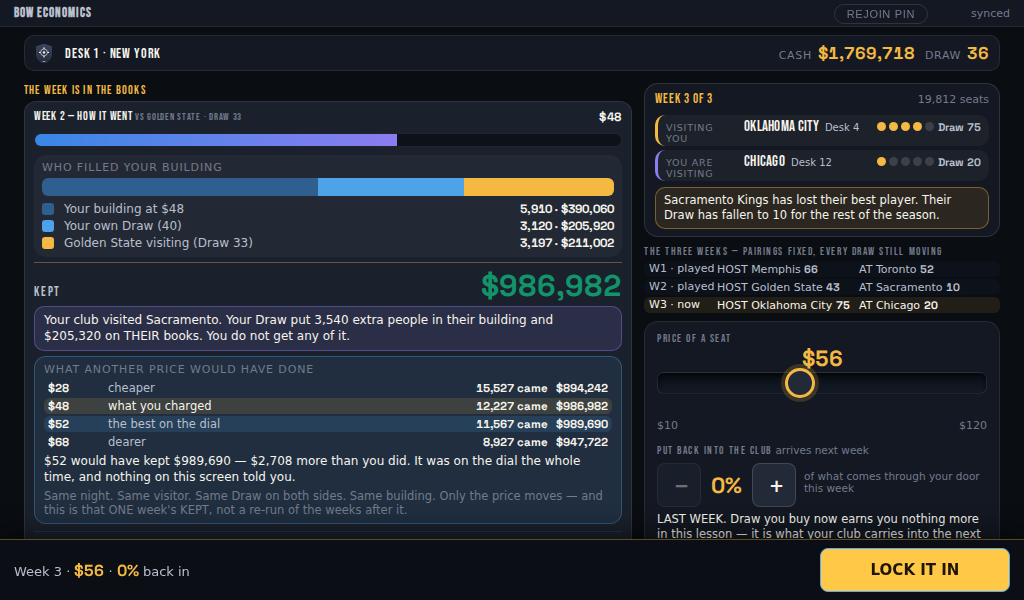
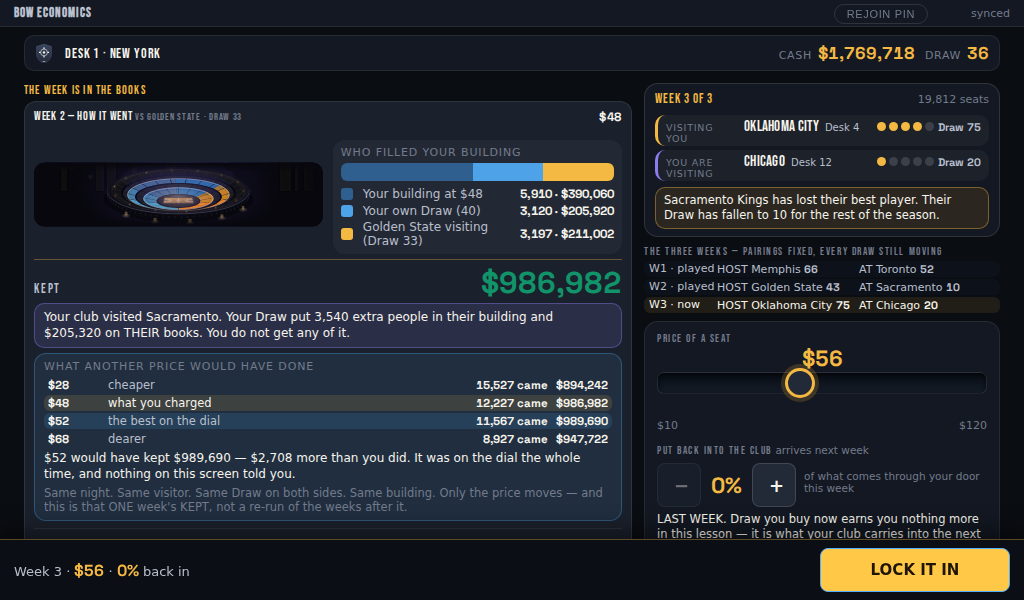
W6/RC3: give L2's home night a building, and colour the crowd
L1 hands a pair an arena to look at. L2 handed them a 10px progress strip and a
stacked bar — the same night rendered as a spreadsheet — which is RC3, "L2 has
no world". It costs more than looks: the thing L2 exists to teach is that the
biggest block of people in YOUR building is usually somebody else's doing, and
a legend under a bar is a weak way to say that next to a picture of the actual
crowd with that block in its own colour.

The settled week now draws the real building, with the crowd split into wedges
of the house: your building at your price, your own Draw, and the club visiting
you, in the three colours the rows beside it already use — so the rows ARE the
key and a pair can point from one to the other. Wedges, not rings, deliberately:
a ring encoding would seat one group in front of another, which is a claim about
seat quality the model does not make, and "a third of the arena in the other
team's colours" is a thing a student may have actually seen.

The drawing costs the card no height. The whole settlement has to land above the
fold on a 1024x600 Chromebook with no scrolling of any kind, so the arena sits
beside its key rather than above it, and takes the drawing's own 4.6:1 aspect —
a taller frame was letterboxing `meet` and drawing a SMALLER building inside
dark bands.

THE MAGNITUDE PROBLEM, MEASURED AND FIXED. Equal angle is nowhere near equal
drawn area in this bowl: PERSP swells the near side, the seat rake stretches the
[…]

Changed region(s): [[0.0312, 0.21, 0.625, 0.87]]

diff --git a/runtime/src/client/shared/arena.ts b/runtime/src/client/shared/arena.ts
@@ -121,6 +121,43 @@ export interface ArenaOptions {
   motion?: boolean;
   /** Accessible name. Supply payload-derived text; never composed here. */
   label?: string;
+  /**
+   * ATTRIBUTION BANDS inside the lit crowd, innermost (front row) outward.
+   *
+   * The default drawing answers one question: how full is the building. M2 L2
+   * asks a second one that no bar chart answers as well — WHO in this crowd is
+   * here because of you, and who was brought by the club you are hosting. The
+   * whole lesson is that the biggest block of people in your building is
+   * usually somebody else's doing, and the honest way to say that is to colour
+   * the people.
+   *
+   * The bands are WEDGES OF THE HOUSE, not rings. That is deliberate on two
+   * counts. A ring encoding would put one group in the front rows and another
+   * in the back, which is a claim about seat quality the model does not make
+   * and the lesson does not mean. And wedges are how people actually talk about
+   * this in a real building — a third of the arena wearing the other team's
+   * colours — so the picture names a phenomenon a student may have seen.
+   *
+   * The two encodings stay separate and each says exactly one thing: the RADIAL
+   * seam still says how full the building is, by equal area, on every open deck
+   * (law 3, untouched); the ANGULAR wedges say who brought the crowd that is
+   * there. A half-full building shows three colours in its front rows.
+   *
+   * Each `share` is a share of the CROWD and the bands sum to 1. Shares that
+   * sum to less leave the remainder in the house tone; pass none and the crowd
+   * is drawn in one tone as before.
+   */
+  bands?: readonly ArenaBand[];
+}
+
+/** One attribution wedge of the lit crowd: its share of the people, and its colour. */
+export interface ArenaBand {
+  /** Share of TURNOUT this wedge accounts for. Bands sum to 1. */
+  share: number;
+  /** Base hue of the wedge's seats, so the surface's own legend can match it. */
+  hue: number;
+  /** Base saturation. The three depth tones vary lightness around it, as before. */
+  sat: number;
 }
 
 type Pt = [number, number];
@@ -216,6 +253,7 @@ export function arenaSvg(opts: ArenaOptions = {}): string {
      the option was on the card changes nothing in the drawing. */
   const bowlOpen = !!opts.bowlOpen;
   const litMode: ArenaLit = opts.lit || "night";
+  const bandsIn = opts.bands ?? [];
   const motion = !!opts.motion;
   const uid = "ar" + (++UID).toString(36);
   const rand = mulberry32(((opts.seed === undefined ? 7 : opts.seed) * 2654435761) ^ 0x5f3759df);
@@ -507,7 +545,100 @@ export function arenaSvg(opts: ArenaOptions = {}): string {
    * carries the number (visual-critic-3 direction 1).
    */
   const seatSteps = detail === "high" ? 5 : 3;
-  const litPaths: string[][] = [[], [], []]; /* far / side / near tone groups */
+  /* Attribution bands, innermost first, clipped so they can never claim more
+     of the bowl than the crowd actually fills. With no bands this is the one
+     house-tone band the drawing has always had. */
+  const HOUSE_BAND: ArenaBand = { share: 1, hue: 256, sat: 34 };
+  const bands: ArenaBand[] = [];
+  if (bandsIn.length > 0 && fill > 0) {
+    let used = 0;
+    for (const b of bandsIn) {
+      const share = clamp(b.share, 0, 1 - used);
+      if (share > 0) bands.push({ ...b, share });
+      used += share;
+      if (used >= 1 - 1e-9) break;
+    }
+    /* Whatever the caller's wedges do not account for stays house tone, so a
+       band list that undershoots loses no people from the picture. */
+    if (used < 1 - 1e-9) bands.push({ share: 1 - used, hue: 256, sat: 34 });
+  } else if (fill > 0) {
+    bands.push(HOUSE_BAND);
+  }
+  /*
+   * Wedge boundaries, sized by the area each one will actually OCCUPY in the
+   * drawing rather than by angle.
+   *
+   * Equal angle is nowhere near equal drawn area in this bowl. Two effects
+   * push in opposite directions — `PERSP` swells the near side, and the seat
+   * rake stretches the far side vertically — and the rake wins by a long way.
+   * Measured on the shipped constants by rendering one wedge at a time and
+   * counting its pixels, four equal quarters of the house drew as 14.6%, 35.4%,
+   * 35.3% and 14.7% of the crowd. A picture in which a quarter of the building
+   * can look like a seventh or like a third, depending only on where it lands,
+   * is misrepresenting a magnitude, and no legend underneath undoes that.
+   *
+   * An analytic correction is not trustworthy here: the closed form for the
+   * perspective term alone left the error at ±42%, because the rake is the
+   * dominant term and it is piecewise. So the area is MEASURED, off the same
+   * `pt()` projection the drawing itself uses — the lit region of every open
+   * deck, swept in 360 steps, accumulated by shoelace. Whatever the geometry
+   * does, the wedges own their share of what is drawn.
+   *
+   * The radial seam is untouched: it still says how full the house is, by equal
+   * area, on every open deck (law 3).
+   */
+  const WEDGE_START = Math.PI / 2;
+  const SWEEP_STEPS = 360;
+  /** Drawn area of the lit crowd in each of `SWEEP_STEPS` slices from WEDGE_START. */
+  const sweep: number[] = new Array<number>(SWEEP_STEPS).fill(0);
+  if (bands.length > 1 && fill > 0.004) {
+    for (const deck of DECKS) {
+      if (!isOpenDeck(deck)) continue;
+      const rSeam = Math.sqrt(deck.rIn * deck.rIn + fill * (deck.rOut * deck.rOut - deck.rIn * deck.rIn));
+      for (let i = 0; i < SWEEP_STEPS; i += 1) {
+        const a0 = WEDGE_START + (i / SWEEP_STEPS) * Math.PI * 2;
+        const a1 = WEDGE_START + ((i + 1) / SWEEP_STEPS) * Math.PI * 2;
+        const q: Pt[] = [pt(deck.rIn, a0), pt(deck.rIn, a1), pt(rSeam, a1), pt(rSeam, a0)];
+        let A = 0;
+        for (let k = 0; k < 4; k += 1) {
+          const [x1, y1] = q[k]!;
+          const [x2, y2] = q[(k + 1) % 4]!;
+          A += x1 * y2 - x2 * y1;
+        }
+        sweep[i] = sweep[i]! + Math.abs(A) / 2;
+      }
+    }
+  }
+  const sweepTotal = sweep.reduce((a, x) => a + x, 0);
+  /** The angle by which the DRAWN crowd has covered `c` of its area since WEDGE_START. */
+  const angleForArea = (c: number): number => {
+    if (c <= 0) return WEDGE_START;
+    if (c >= 1) return WEDGE_START + Math.PI * 2;
+    if (sweepTotal <= 0) return WEDGE_START + c * Math.PI * 2;
+    let acc = 0;
+    const want = c * sweepTotal;
+    for (let i = 0; i < SWEEP_STEPS; i += 1) {
+      const nextAcc = acc + sweep[i]!;
+      if (nextAcc >= want) {
+        /* linear inside the slice — one slice is a degree of arc */
+        const t = sweep[i]! > 0 ? (want - acc) / sweep[i]! : 0;
+        return WEDGE_START + ((i + t) / SWEEP_STEPS) * Math.PI * 2;
+      }
+      acc = nextAcc;
+    }
+    return WEDGE_START + Math.PI * 2;
+  };
+  const wedges: { a0: number; a1: number; band: ArenaBand }[] = [];
+  {
+    let cum = 0;
+    for (const b of bands) {
+      const next = cum + b.share;
+      wedges.push({ a0: angleForArea(cum), a1: angleForArea(next), band: b });
+      cum = next;
+    }
+  }
+  /* One tone-group triple per band, so depth shading survives the colouring. */
+  const litPaths: string[][][] = bands.map(() => [[], [], []]); /* far / side / near, per wedge */
   const darkPaths: string[][] = [[], [], []];
   const litUnion: string[] = [];
   const emptyUnion: string[] = [];
@@ -550,9 +681,22 @@ export function arenaSvg(opts: ArenaOptions = {}): string {
       darkPaths[tone]!.push(band(deck.rIn, deck.rOut, b0, b1, seatSteps));
       emptyUnion.push(band(rSeam, deck.rOut, b0, b1, seatSteps));
       if (fill > 0.004) {
-        const d = band(deck.rIn, rSeam, b0, b1, seatSteps);
-        litPaths[tone]!.push(d);
-        litUnion.push(d);
+        /* This section's slice of each wedge. The radial extent is the same
+           rIn..rSeam every section has; only the ANGULAR span is split, so the
+           fill law is untouched and the wedge shares are exact rather than
+           quantised to the section count. */
+        for (let bi = 0; bi < wedges.length; bi += 1) {
+          const wg = wedges[bi]!;
+          /* Wedges run past 2*PI; compare this section against both turns. */
+          for (const shift of [0, Math.PI * 2, -Math.PI * 2]) {
+            const s0 = Math.max(b0, wg.a0 + shift);
+            const s1 = Math.min(b1, wg.a1 + shift);
+            if (s1 - s0 <= 1e-6) continue;
+            const d = band(deck.rIn, rSeam, s0, s1, seatSteps);
+            litPaths[bi]![tone]!.push(d);
+            litUnion.push(d);
+          }
+        }
       }
       if (detail === "high") {
         rowPath += arc(deck.rIn + (deck.rOut - deck.rIn) * 0.5, b0, b1, 3, "M");
@@ -586,12 +730,15 @@ export function arenaSvg(opts: ArenaOptions = {}): string {
         n(0.05 * dim) + '"/>'
     );
   }
-  for (let t = 0; t < 3; t++) {
-    if (litPaths[t]!.length) {
-      out.push(
-        '<path d="' + litPaths[t]!.join("") + '" fill="' +
-          hsl(256 - t * 6, 34 + t * 4, LIT_L[t]! * (0.62 + 0.38 * light) * dim + 1.5) + '"/>'
-      );
+  for (let bi = 0; bi < bands.length; bi++) {
+    const b = bands[bi]!;
+    for (let t = 0; t < 3; t++) {
+      if (litPaths[bi]![t]!.length) {
+        out.push(
+          '<path d="' + litPaths[bi]![t]!.join("") + '" fill="' +
+            hsl(b.hue - t * 6, b.sat + t * 4, LIT_L[t]! * (0.62 + 0.38 * light) * dim + 1.5) + '"/>'
+        );
+      }
     }
   }
   if (litUnion.length) {

diff --git a/runtime/src/client/play/main.ts b/runtime/src/client/play/main.ts
@@ -1,5 +1,5 @@
 import { ApiError, apiFetch } from "../shared/api.js";
-import { arenaSvg } from "../shared/arena.js";
+import { arenaSvg, type ArenaBand } from "../shared/arena.js";
 import { crestStyle } from "../shared/crest.js";
 import { brandMark, dotChart } from "../shared/m2ui.js";
 import { ActionOutbox } from "../shared/outbox.js";
@@ -2680,6 +2680,8 @@ function fhArenaFrame(o: {
   /** Lane A's third state: the top deck as a shuttered deck, or in the pool. */
   bowlSeats?: number;
   bowlOpen?: boolean;
+  /** Attribution bands inside the crowd (M2 L2). See `ArenaBand`. */
+  bands?: readonly ArenaBand[];
 }): string {
   const svg = arenaSvg({
     view: o.view,
@@ -2695,6 +2697,7 @@ function fhArenaFrame(o: {
     label: o.label,
     bowlSeats: o.bowlSeats,
     bowlOpen: o.bowlOpen,
+    bands: o.bands,
   });
   // Lane A's redraw fits the silhouette inside a panoramic viewBox and emits
   // `preserveAspectRatio="xMidYMid meet"`, so the frame can be any shape and
@@ -4210,6 +4213,66 @@ function hlPriceCfHtml(w: HLWeek): string {
     </div>`;
 }
 
+/**
+ * THE HOME NIGHT, DRAWN — and coloured by who brought the people.
+ *
+ * L1 gives a pair a building to look at; L2 used to give them a 10px progress
+ * strip and a stacked bar, which is the same night rendered as a spreadsheet.
+ * That is RC3, "L2 has no world", and it costs the lesson more than looks: the
+ * thing L2 exists to teach is that the biggest block of people in YOUR building
+ * is usually somebody else's doing, and a legend under a bar is a weak way to
+ * say it next to a picture of the actual crowd with that block in a different
+ * colour.
+ *
+ * The bands are shares of the seats open tonight and are drawn by equal AREA,
+ * the same law the arena's single seam has always obeyed — so the picture
+ * cannot overstate the visitor's block, and a half-full building looks half
+ * full with all three colours in the front rows rather than a full bowl of
+ * three colours. The hues are the legend's own three swatches, so the rows
+ * underneath ARE the key and a pair can point from one to the other.
+ */
+/**
+ * The three wedges, in the legend's own colours. Shares of the crowd, computed
+ * from the same three fan counts the rows print, so the picture and the numbers
+ * beside it cannot disagree. A week with nobody in the building has no wedges.
+ */
+function hlCrowdBands(w: HLWeek): ArenaBand[] {
+  const people = w.bareFans + w.ownFans + w.visitorFans;
+  if (people <= 0) return [];
+  return [
+    { share: w.bareFans / people, hue: 209, sat: 42 },
+    { share: w.ownFans / people, hue: 206, sat: 70 },
+    { share: w.visitorFans / people, hue: 41, sat: 80 },
+  ];
+}
+
+function hlArenaHtml(w: HLWeek): string {
+  const cap = Math.max(1, w.capacity);
+  const tight = fhTight();
+  return fhArenaFrame({
+    view: "outcome",
+    turnout: w.turnout,
+    seatsOpen: cap,
+    soldOut: w.soldOut,
+    turnedAway: w.turnedAway,
+    w: 620,
+    h: 300,
+    motion: false,
+    label: `${w.turnout.toLocaleString()} in the building, ${w.visitorFans.toLocaleString()} of them brought by ${w.visitor}`,
+    // The outcome drawing composes itself into a 4.6:1 box. Give the frame any
+    // other shape and `meet` fits the building to the narrow dimension and
+    // letterboxes the rest — which is why an apparently taller panel drew a
+    // SMALLER building with dark bands above and below it. The frame takes the
+    // drawing's own aspect, so every pixel of it is building.
+    maxHeight: Math.round((tight ? 300 : 340) / 4.6),
+    cls: "hl-arena",
+    // Wedges of the house, in the order the rows below name them: your building
+    // at your price, your own Draw, then the club visiting you. Shares of the
+    // CROWD, so they sum to the whole house however full it is.
+    bands: hlCrowdBands(w),
+  });
+}
+
 function hlWeekResultHtml(w: HLWeek, title: string): string {
   const sellout = w.soldOut
     ? `<div class="fh-sellout">
@@ -4226,7 +4289,8 @@ function hlWeekResultHtml(w: HLWeek, title: string): string {
         <span class="numeric">$${w.price}${w.share > 0 ? ` · ${w.share}% back in` : ""}</span>
       </div>
       ${sellout}
-      <div class="fh-fill-track"><div class="fh-fill-bar ${w.soldOut ? "soldout" : ""}" style="width:${Math.min(100, w.fillPct)}%"></div></div>
+      <div class="hl-crowd">
+        ${hlArenaHtml(w)}
       <div class="hl-split" id="hlSplit">
         <div class="hl-split-title">Who filled your building</div>
         <div class="hl-split-bar">
@@ -4239,6 +4303,7 @@ function hlWeekResultHtml(w: HLWeek, title: string): string {
           <div class="hl-split-row"><span class="hl-key own"></span><span>Your own Draw (${w.hostDrawBefore})</span><span class="numeric">${w.ownFans.toLocaleString()} · ${money(w.ownDollars)}</span></div>
           <div class="hl-split-row"><span class="hl-key visitor"></span><span>${escapeHtml(w.visitor)} visiting (Draw ${w.visitorDraw})</span><span class="numeric">${w.visitorFans.toLocaleString()} · ${money(w.visitorDollars)}</span></div>
         </div>
+      </div>
       </div>
       <div class="fh-kept ${w.net < 0 ? "neg" : ""}" data-hl-kept="1">
         <span class="fh-kept-label">Kept</span>

diff --git a/runtime/src/client/shared/theme.css b/runtime/src/client/shared/theme.css
@@ -2068,6 +2068,14 @@ html:not([data-module="m2"]) .fh-replay {
   border: 1px solid rgba(255, 255, 255, 0.12);
   color: var(--ink-muted);
   border-radius: 999px;
+  /* It is a pill, and it has to look like one wherever it lands. Its parent is
+     a stretch-aligned column, so without these it rendered as a full-width
+     bordered bar reading REJOIN PIN — which on a student device reads as a
+     stat whose number failed to load. It only ever looked right during PLAY,
+     where `fh-compact-play` takes it out of flow entirely. */
+  align-self: flex-start;
+  width: fit-content;
+  max-width: 100%;
   padding: 3px 12px;
   font-size: 11px;
   letter-spacing: 0.06em;
@@ -2811,6 +2819,19 @@ html:not([data-module="m2"]) .hl-decide > .hl-col-context .fh-sellout { padding:
 .fh-slate-row.hl-open-week { color: var(--ink-primary); background: rgba(244,185,66,0.10); }
 
 /* ---- /play: the decomposition split ---- */
+/* THE CROWD AND ITS KEY, side by side. The drawing costs the settlement card
+   almost no height this way, which matters: the whole settlement has to land
+   above the fold on a 1024x600 Chromebook with no scrolling of any kind, and
+   the picture is only worth having if a pair can point from a colour in the
+   bowl to the row that names it without moving their eyes far. Below 620px the
+   column is too narrow for two, and it stacks. */
+.hl-crowd { display: flex; gap: 10px; align-items: stretch; margin-top: 10px; }
+.hl-crowd > .hl-arena { flex: 1 1 50%; min-width: 0; align-self: center; }
+.hl-crowd > .hl-split { flex: 1 1 50%; min-width: 0; margin-top: 0; }
+@media (max-width: 620px) {
+  .hl-crowd { flex-direction: column; gap: 8px; }
+  .hl-crowd > .hl-arena, .hl-crowd > .hl-split { flex: none; }
+}
 .hl-split { margin-top: 10px; padding: 10px; border-radius: 12px; background: rgba(255,255,255,0.04); }
 .hl-split-title { font-size: 11px; text-transform: uppercase; letter-spacing: .08em; color: var(--ink-muted); margin-bottom: 6px; }
 .hl-split-bar { display: flex; height: 18px; border-radius: 6px; overflow: hidden; background: rgba(0,0,0,0.35); }
